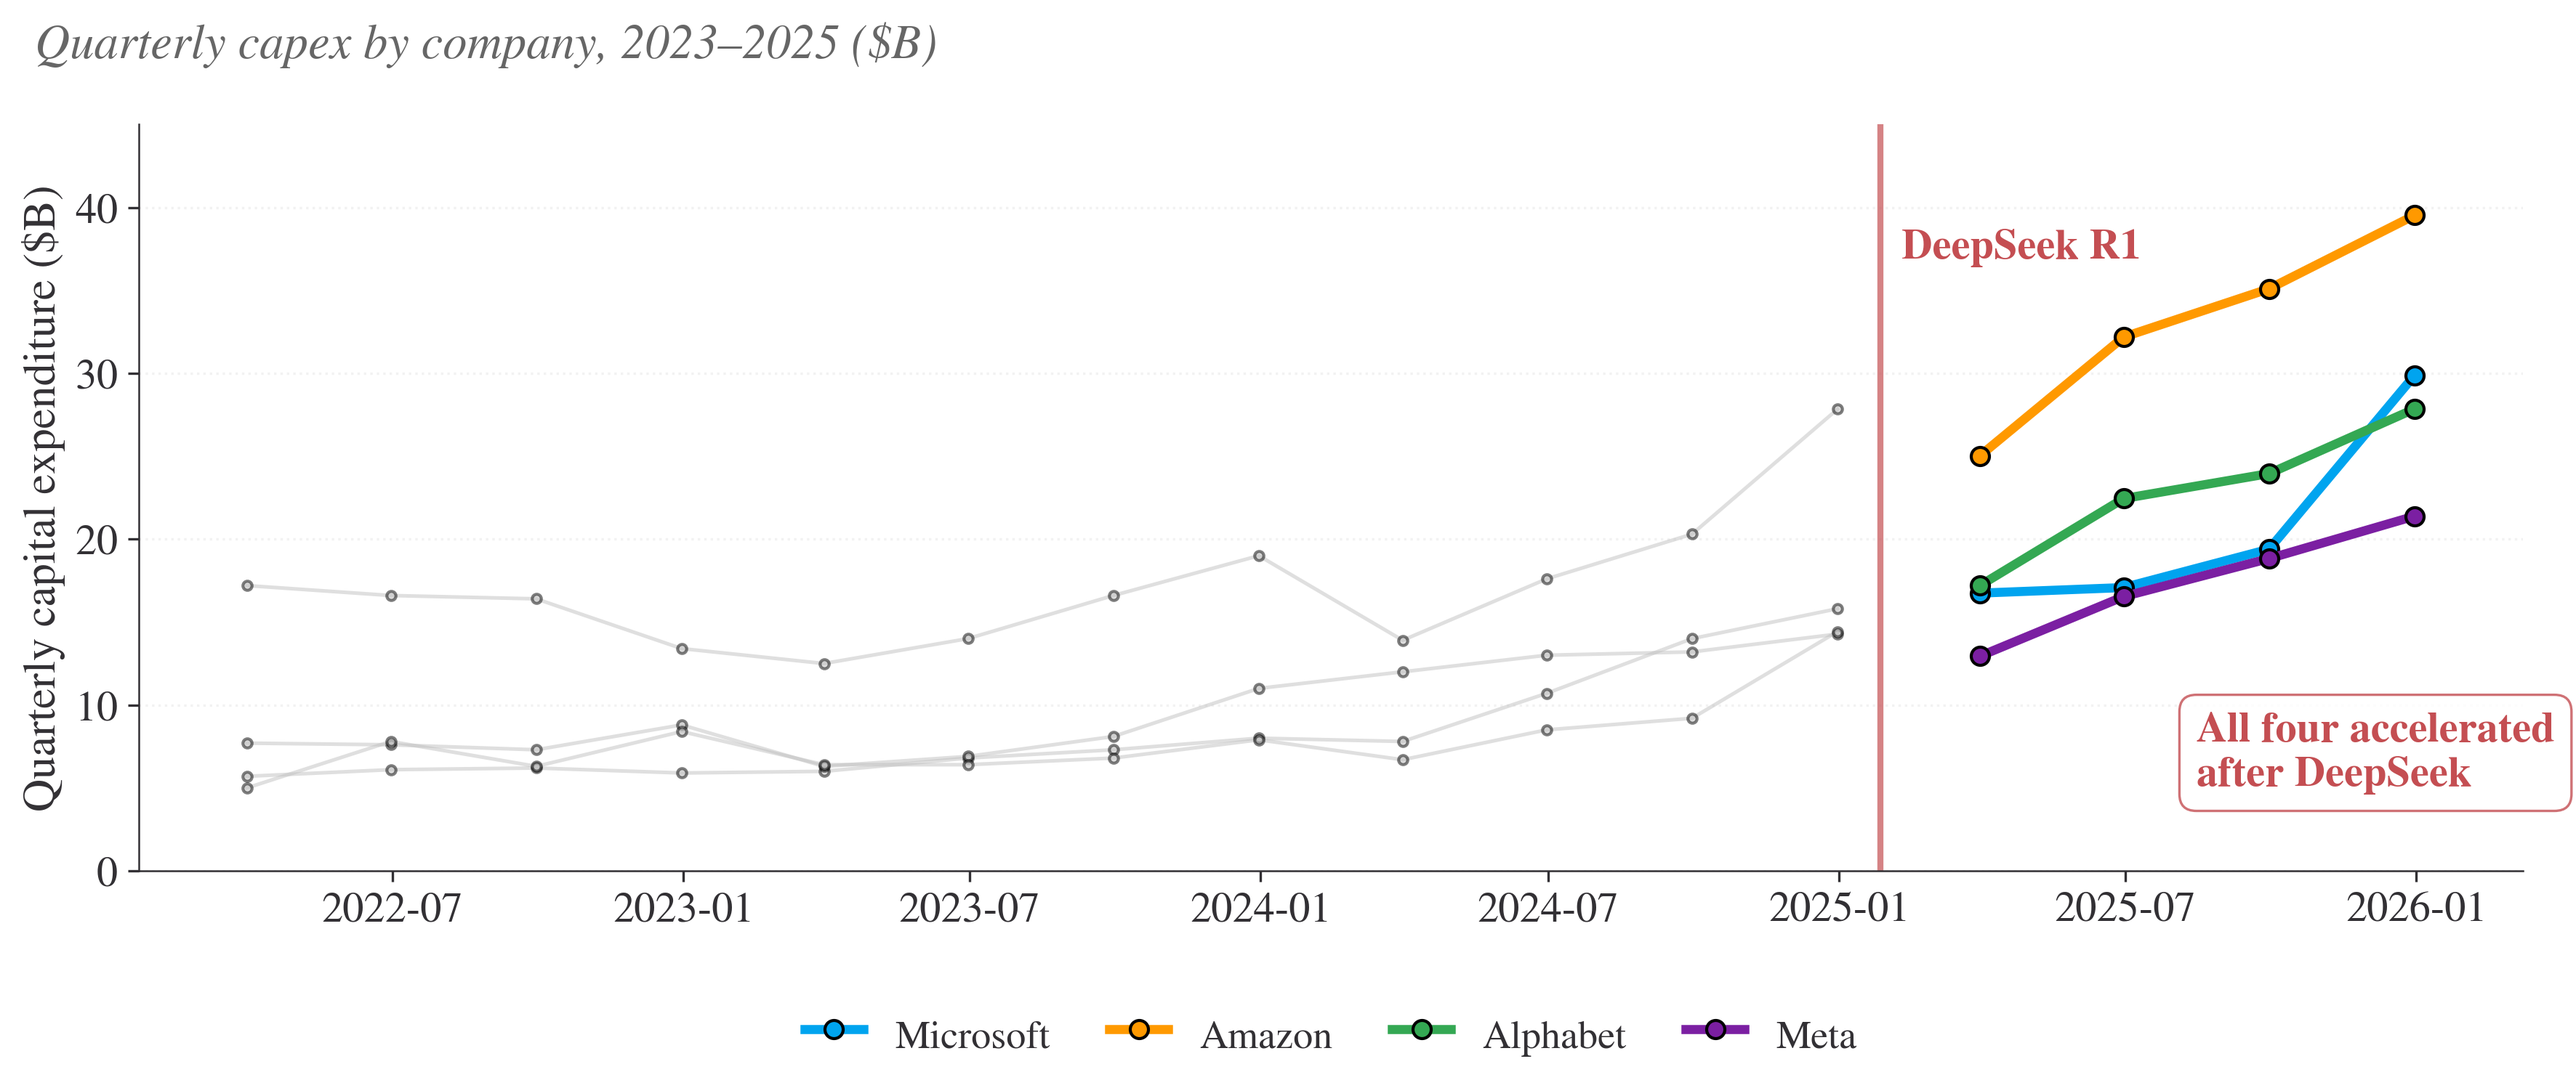
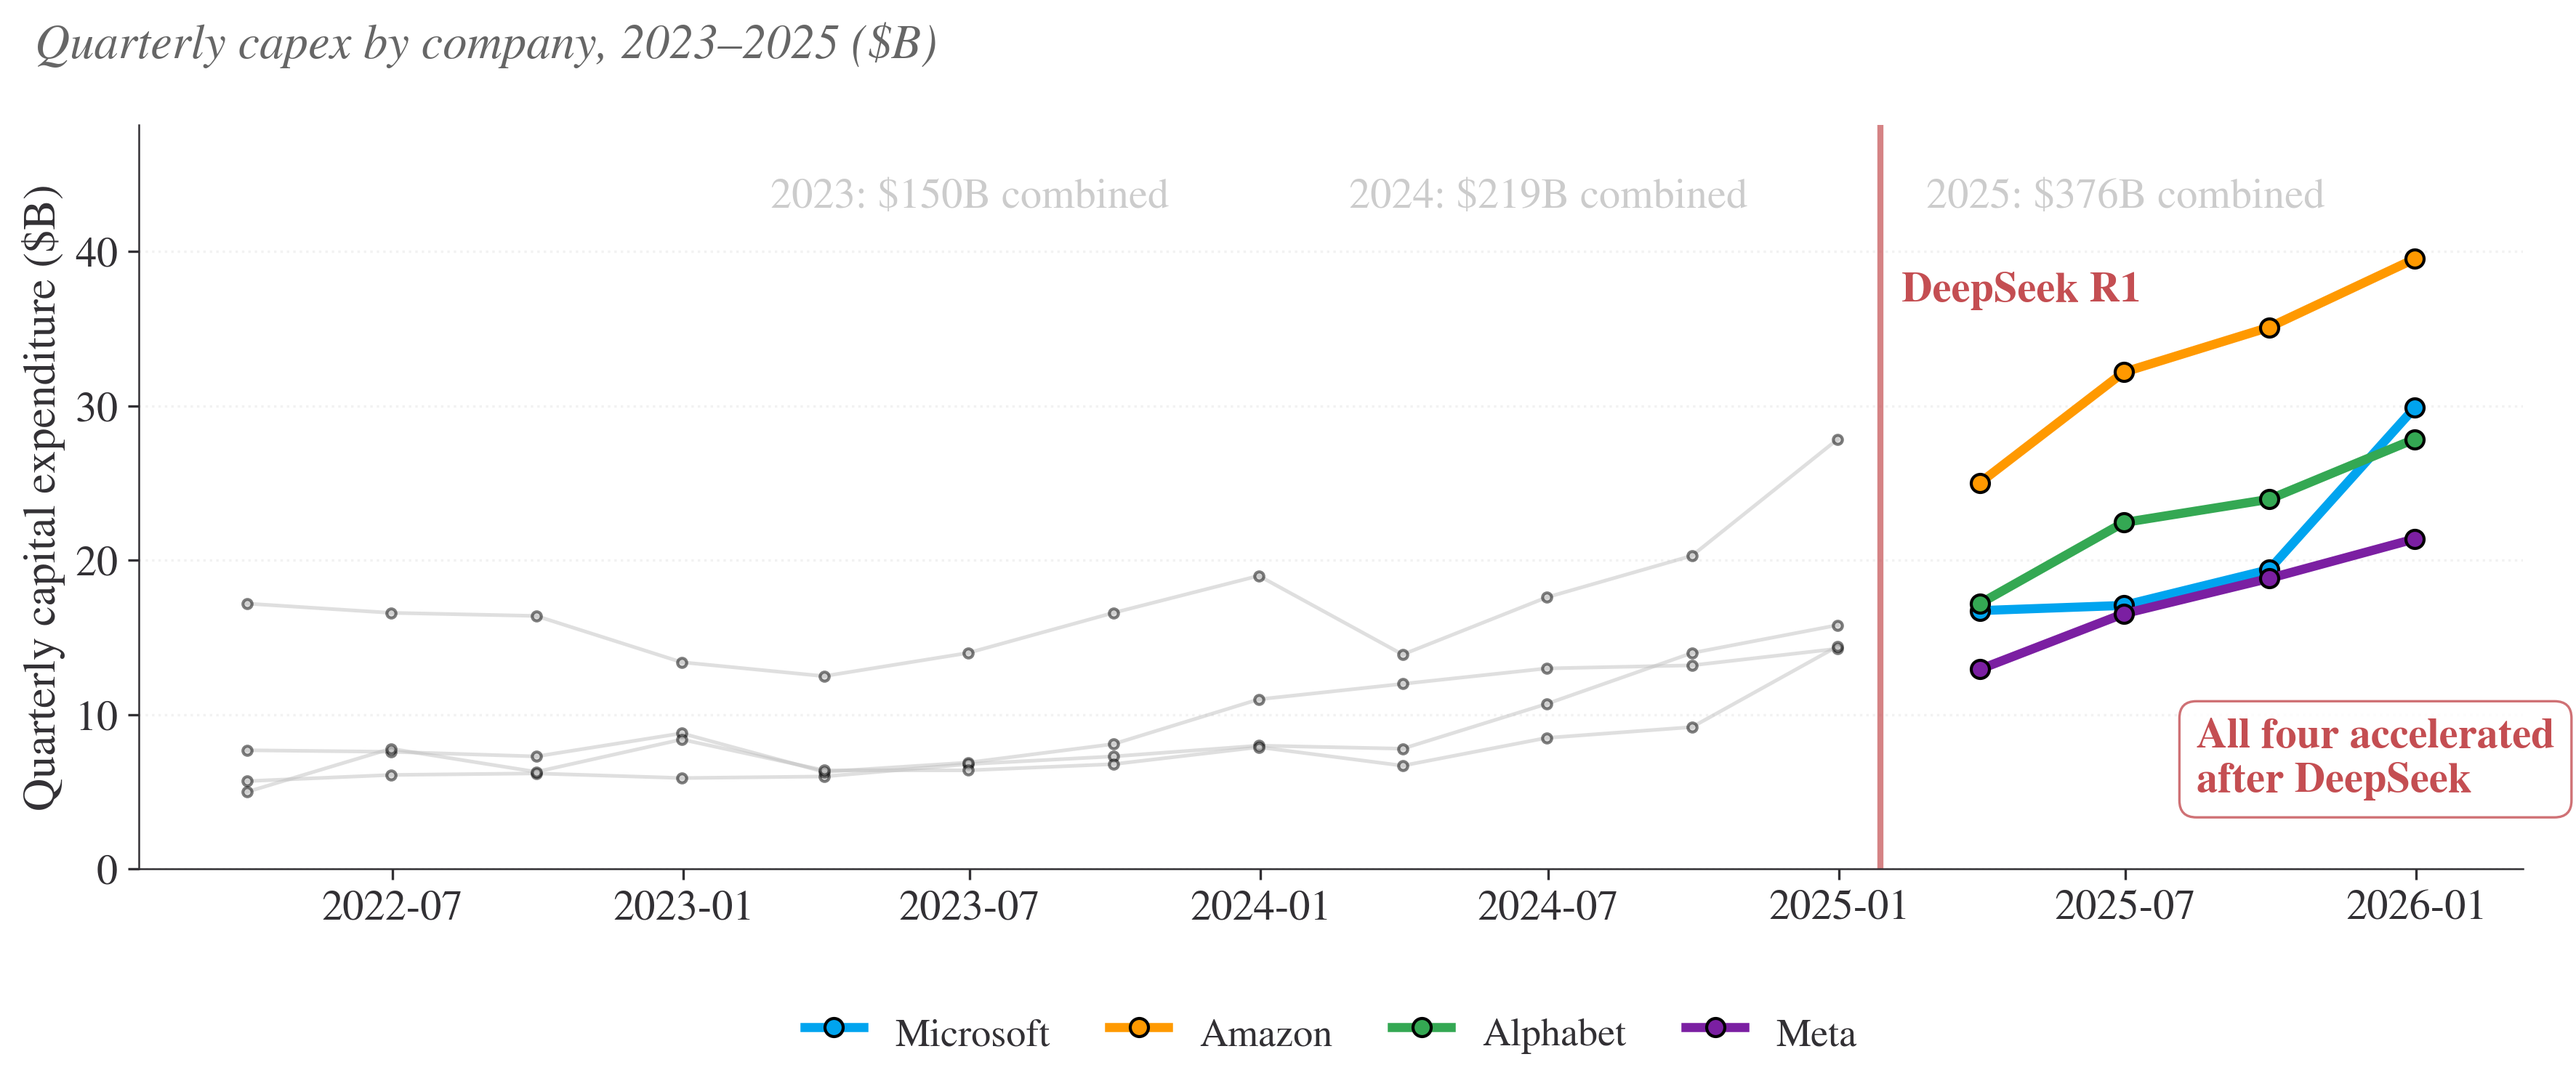
Add quarterly chart year totals, fix cross-notebook links on GH Pages
- Quarterly chart: add combined 4-company annual total annotations in
  a header band above the data (2023: $150B, 2024: $219B, 2025: $376B),
  making the chart self-contained; remove redundant per-company table

- build.py: rewrite ./foo.py hrefs to ./foo.html in all exported notebooks
  so cross-notebook navigation works correctly when deployed to GitHub Pages

diff --git a/notebooks/dd001_capital_reality/01_markets_and_money.py b/notebooks/dd001_capital_reality/01_markets_and_money.py
@@ -832,6 +832,7 @@ def _(
     CONTEXT,
     FIGSIZE,
     FONTS,
+    capex_annual,
     capex_raw,
     cfg,
     chart_title,
@@ -858,6 +859,18 @@ def _(
     _ax.tick_params(axis="both", labelsize=FONTS["tick_label"])
     _ax.grid(True, axis="y", linestyle=":", alpha=0.4)
     _ymax = capex_raw[capex_raw["ticker"].isin(_tickers)]["capex_bn"].max()
+    # Annual combined total annotations — extend ylim to create header band
+    _annual_4co = capex_annual[capex_annual["ticker"].isin(_tickers)].groupby("year")["capex_bn"].sum()
+    _ax.set_ylim(0, _ymax * 1.22)
+    for _yr, _mid in [(2023, "2023-07-01"), (2024, "2024-07-01"), (2025, "2025-07-01")]:
+        if _yr not in _annual_4co.index:
+            continue
+        _ax.text(
+            pd.Timestamp(_mid), _ymax * 1.10,
+            f"{_yr}: ${_annual_4co[_yr]:.0f}B combined",
+            fontsize=FONTS["annotation"], color=COLORS["muted"],
+            ha="center", va="center",
+        )
     _ax.axvline(_deepseek_date, color=COLORS["accent"], linestyle="-", linewidth=2, alpha=0.7)
     _ax.text(_deepseek_date, _ymax * 0.98, "  DeepSeek R1", fontsize=FONTS["annotation"], color=COLORS["accent"], fontweight="bold", va="top")
     _ax.text(_deepseek_date + pd.Timedelta(days=200), _ymax * 0.18, "All four accelerated\nafter DeepSeek", fontsize=FONTS["annotation"], color=COLORS["accent"], fontweight="bold", ha="left", va="center", bbox={"boxstyle": "round,pad=0.4", "fc": "white", "ec": COLORS["accent"], "alpha": 0.8})
@@ -901,15 +914,6 @@ def _(cfg, mo, stats):
 @app.cell(hide_code=True)
 def _(mo, stats):
     mo.md(f"""
-    Through four quarters of data, the answer from actual spending is: no slowdown. All major builders accelerated through 2025:
-
-    | Company | 2024 actual | 2025 actual | 2026 guidance |
-    | :--- | :--- | :--- | :--- |
-    | Amazon | about \\${stats['amzn_2024']:.0f}B | about \\${stats['amzn_2025']:.0f}B | \\${stats['amzn_2026g']:.0f}B |
-    | Alphabet | about \\${stats['googl_2024']:.0f}B | about \\${stats['googl_2025']:.0f}B | \\${stats['googl_2026g']:.0f}B |
-    | Microsoft | about \\${stats['msft_2024']:.0f}B | about \\${stats['msft_2025']:.0f}B | about \\${stats['msft_2026g']:.0f}B |
-    | Meta | about \\${stats['meta_2024']:.0f}B | about \\${stats['meta_2025']:.0f}B | \\${stats['meta_2026g_low']}-{stats['meta_2026g_high']}B |
-
     Compute got much cheaper, but total infrastructure spending still increased. The spending
     data through Q4 2025 fits both explanations: companies are investing ahead of real demand,
     or cheaper compute is unlocking so much more usage that total spending rises anyway. The

diff --git a/.github/scripts/build.py b/.github/scripts/build.py
@@ -11,6 +11,7 @@ Usage:
 from __future__ import annotations
 
 import os
+import re
 import subprocess
 import sys
 from html import escape
@@ -267,6 +268,11 @@ def inject_site_nav(html_path: Path) -> None:
         return  # unexpected structure — leave untouched
     insert_at = idx + len(marker)
     html = html[:insert_at] + "\n" + _NOTEBOOK_NAV + "\n" + html[insert_at:]
+
+    # 3. Rewrite in-prose cross-notebook links: ./foo.py -> ./foo.html
+    #    Notebook prose references sibling notebooks by their source filename.
+    #    On GitHub Pages the deployed files are .html, so the href must match.
+    html = re.sub(r'href="(\./[^"]+)\.py"', r'href="\1.html"', html)
 
     html_path.write_text(html, encoding="utf-8")
 
